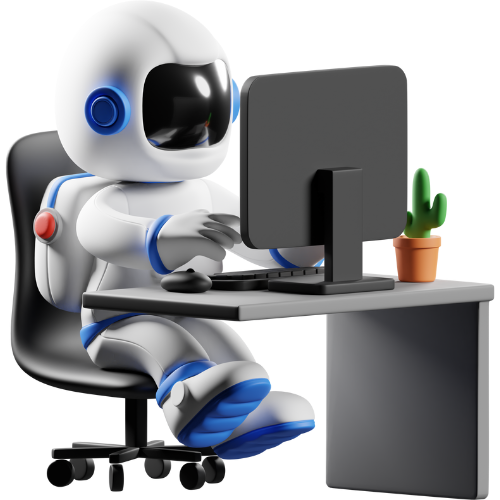
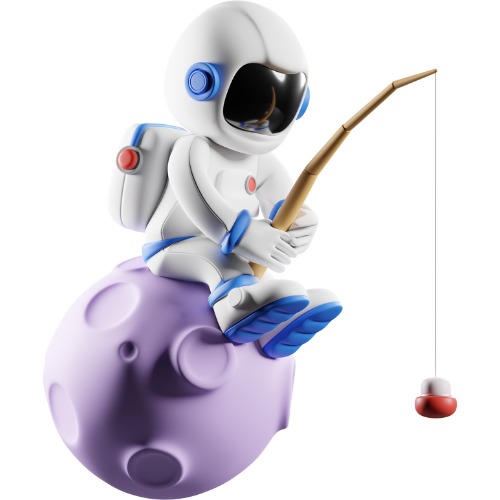
images

diff --git a/index.html b/index.html
@@ -764,8 +764,8 @@
 
             <div class="bonus_container container grid">
 
-                <img src="assets/img/and-creative-03.svg" alt="bonus André Carvalho" class="bonus_img">
-                <!-- <img src="assets/img/astronaut-02-and.png" alt="bonus André Carvalho" class="bonus_img"> -->
+                <!-- <img src="assets/img/and-creative-03.svg" alt="bonus André Carvalho" class="bonus_img"> -->
+                <img src="assets/img/astronaut-03-and.png" alt="bonus André Carvalho" class="bonus_img">
                 <div class="bonus_data ">
                     <h2 class="bonus_description">Suporte Personalizado</h2>
                     <p class="">Durante todo o processo e até 15 dias depois que tivermos executado o
@@ -776,8 +776,8 @@
                     </p>
                 </div>
 
-                <img src="assets/img/and-creative-04.svg" alt="bonus André Carvalho" class="bonus_img">
-                <!-- <img src="assets/img/astronaut-02-and.png" alt="bonus André Carvalho" class="bonus_img"> -->
+                <!-- <img src="assets/img/and-creative-04.svg" alt="bonus André Carvalho" class="bonus_img"> -->
+                <img src="assets/img/astronaut-04-and.png" alt="bonus André Carvalho" class="bonus_img">
                 <div class="bonus_data">
                     <h2 class="bonus_description">Otimizações de Performance</h2>
                     <p class="">Quando se trabalha com anúncios e vendas, uma das maiores preocupações
@@ -792,8 +792,8 @@
                     </p>
                 </div>
 
-                <img src="assets/img/and-creative-05.svg" alt="bonus André Carvalho" class="bonus_img">
-                <!-- <img src="assets/img/astronaut-02-and.png" alt="bonus André Carvalho" class="bonus_img"> -->
+                <!-- <img src="assets/img/and-creative-05.svg" alt="bonus André Carvalho" class="bonus_img"> -->
+                <img src="assets/img/astronaut-05-and.png" alt="bonus André Carvalho" class="bonus_img">
                 <div class="bonus_data">
                     <h2 class="bonus_description">Instalação de Pixels</h2>
                     <p class="">Vou instalar todos os pixels de rastreamento que você quiser utilizar,
@@ -805,7 +805,7 @@
                 </div>
 
             </div>
-            <div class="container">
+            <div class="container bonus_btn">
                 <a href="#contact" class="button button--flex">
                     Quero começar AGORA! <i class="uil uil-message button_icon"></i>
                 </a>
@@ -814,7 +814,8 @@
         </section>
 
         <!--==================== CONTRATE ====================-->
-        <svg xmlns="http://www.w3.org/2000/svg" viewBox="0 0 1440 320" class="border-top" style="position:absolute">
+        <svg xmlns="http://www.w3.org/2000/svg" viewBox="0 0 1440 320" class="border-top"
+            style="position:absolute;margin-top:-1px">
             <path fill="var(--body-color)" fill-opacity="1"
                 d="M0,160L80,144C160,128,320,96,480,117.3C640,139,800,213,960,218.7C1120,224,1280,160,1360,128L1440,96L1440,0L1360,0C1280,0,1120,0,960,0C800,0,640,0,480,0C320,0,160,0,80,0L0,0Z">
             </path>
@@ -1149,8 +1150,8 @@
                             <a href=""><span class="contact_subtitle">(24) 992-147-790</span></a>
                         </div>
                     </div>
-                </div>
-                <div>
+
+
                     <div class="contact_information">
                         <i class="uil uil-envelope contact_icon"></i>
                         <div>
@@ -1158,8 +1159,7 @@
                             <span class="contact_subtitle">andre.decarvalho1@gmail.com</span>
                         </div>
                     </div>
-                </div>
-                <div>
+
                     <div class="contact_information">
                         <i class="uil uil-map-marker contact_icon"></i>
                         <div>
@@ -1169,16 +1169,30 @@
                     </div>
                 </div>
 
+                <div action="" class="contact_form grid">
+                    <img src="./assets/img/astronaut-06-and.png" alt="">
+
+                    <!-- <div>
+                        <a href="#" class="button button--flex">
+                            Send Message
+                            <i class="uil uil-message button_icon"></i>
+                        </a>
+
+                    </div> -->
+                </div>
+
+
             </div>
 
-            <!-- <div class="contact_btn container">
+
+            <div class="contact_btn container">
                 <a href="https://wa.me/5524992147790?text=Olá!%20Vamos%20desenvolver%20um%20projeto%20juntos?"
                     class="button button--flex" target="_blank">
                     Manda um Whatsapp!
                     <i class="uil uil-message button_icon"></i>
                 </a>
 
-            </div> -->
+            </div>
 
         </section>
     </main>

diff --git a/assets/css/styles.css b/assets/css/styles.css
@@ -1584,8 +1584,12 @@ display: none;
   padding: .25rem .5rem .5rem 0;
 }
 
-.whats-btn{
-  background-color: #25d366;
+.contact_form > img{
+  margin-top: -50px;
+}
+
+.contact_btn{
+ margin-top:var(--mb-2-5);
 }
 
 /*==================== FOOTER ====================*/
@@ -2072,6 +2076,10 @@ display: none;
     text-align: left;
   }
 
+  .bonus_btn{
+    margin-top: var(--mb-2-5);
+  }
+
   .portfolio_img{
     width: 320px;
   }
@@ -2176,10 +2184,6 @@ display: none;
     bottom: -4.5rem;
   }
 
-  .contact_container{
-    grid-template-columns: repeat(3, 1fr)
-  }
-
   .contact_btn {
     display: flex;
     justify-content: center ;
@@ -2189,7 +2193,15 @@ display: none;
     width: 460px;
   }
 
+  .contact_form > img{
+    height: 300px;
+  }
+
   .contact_inputs{
     grid-template-columns: repeat(2, 1fr);
+  }
+
+  .contact_information{
+   margin-left: 8rem;
   }
 }
